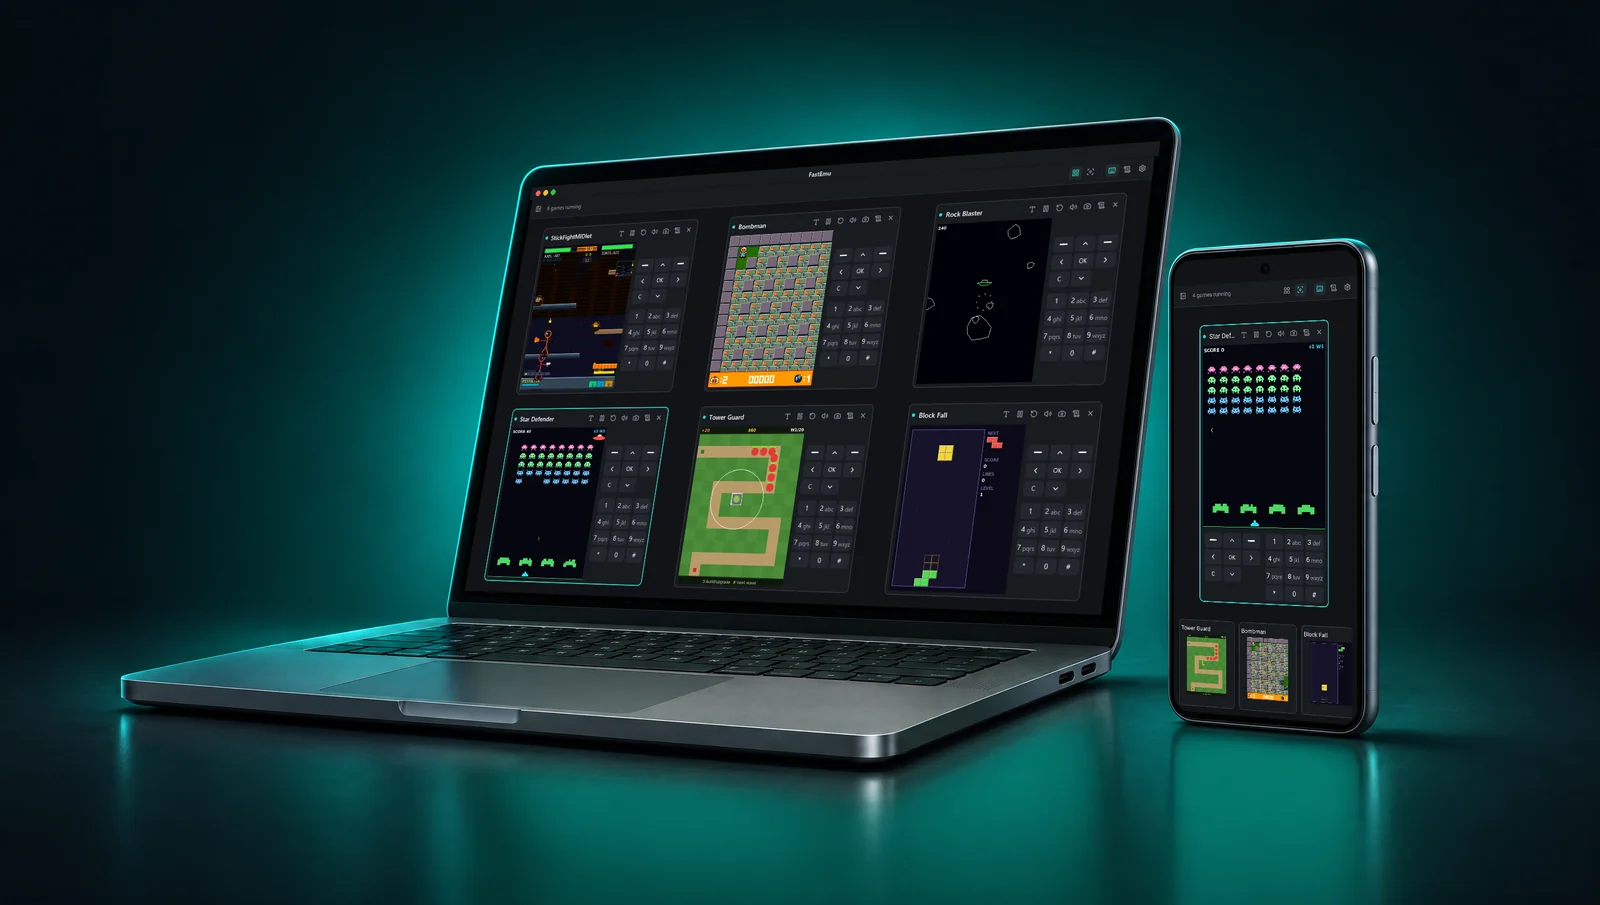
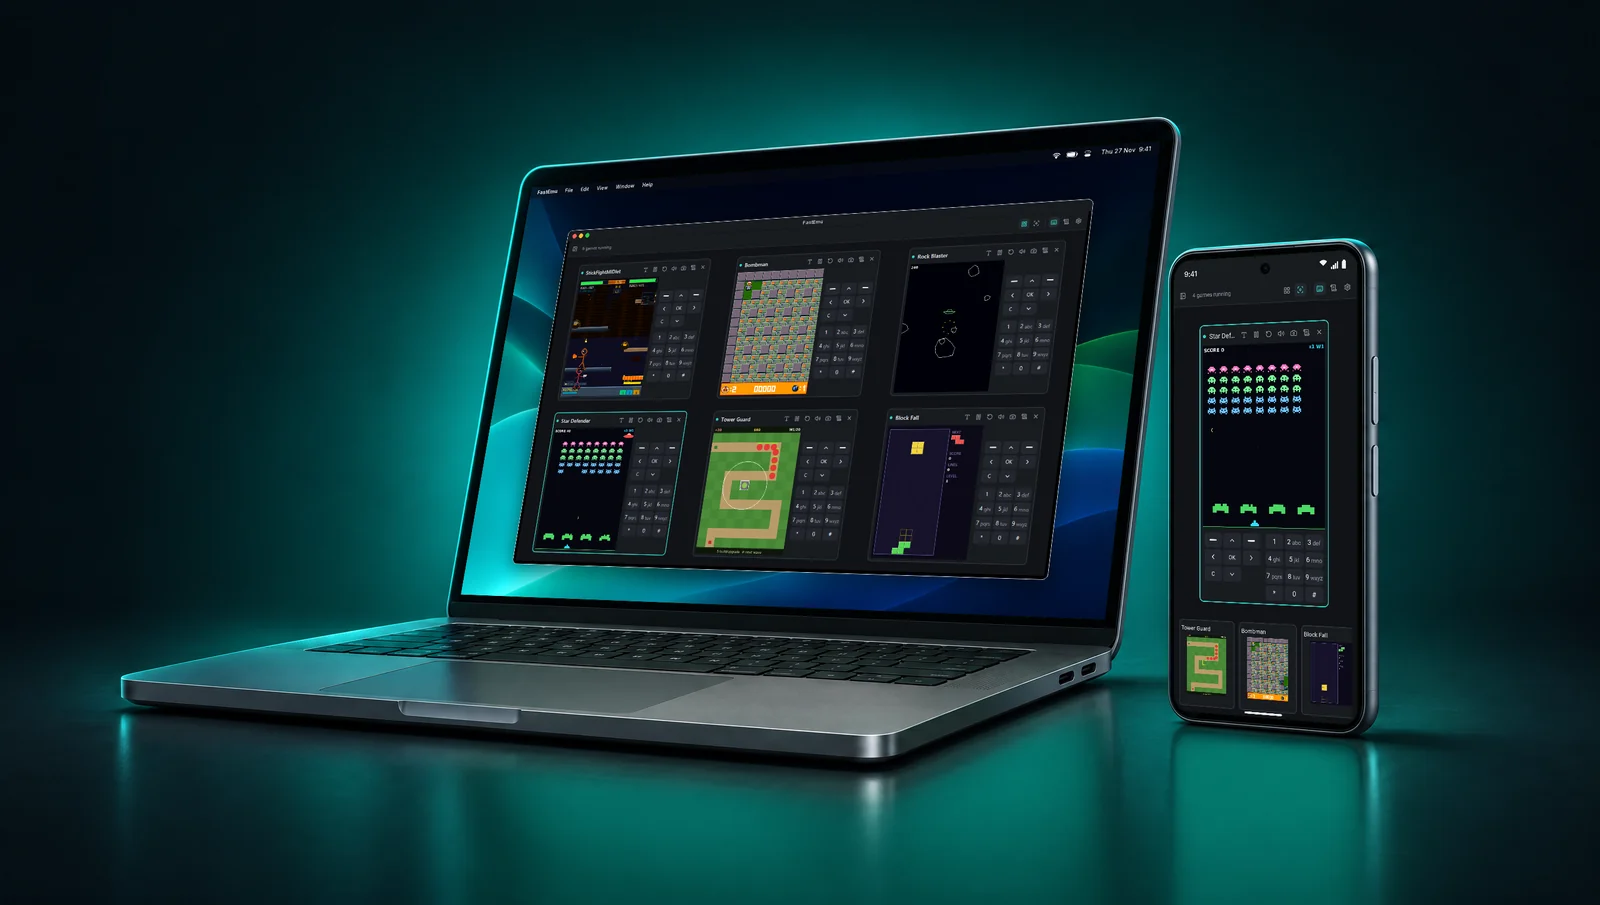
feat(site): use the picture with the macOS desktop and Android bars (#82)

Changed region(s): [[0.2812, 0.1547, 0.7188, 0.6807], [0.375, 0.1856, 0.4062, 0.2166]]

diff --git a/site/src/index.html b/site/src/index.html
@@ -36,8 +36,8 @@
 
 <section class="showcase" aria-label="FastEmu playing games">
   <figure class="shot shot-hero">
-    <img src="/assets/demo/hero.webp" width="1600" height="905" fetchpriority="high" alt="FastEmu on a laptop and an Android phone: six J2ME games in the desktop window, and Star Defender on the phone with Tower Guard, BombMan and Block Fall below it">
-    <figcaption>Screenshots of FastEmu 0.1.0 on a rendered laptop and phone.</figcaption>
+    <img src="/assets/demo/hero.webp" width="1600" height="905" fetchpriority="high" alt="FastEmu on a laptop and an Android phone: six J2ME games in the window on a macOS desktop, and Star Defender on the phone with Tower Guard, BombMan and Block Fall below it">
+    <figcaption>The FastEmu 0.1.0 window and Android app on a rendered laptop and phone. The macOS desktop around the window is a mock-up.</figcaption>
   </figure>
   <figure class="shot shot-demo">
     <div class="clip">
